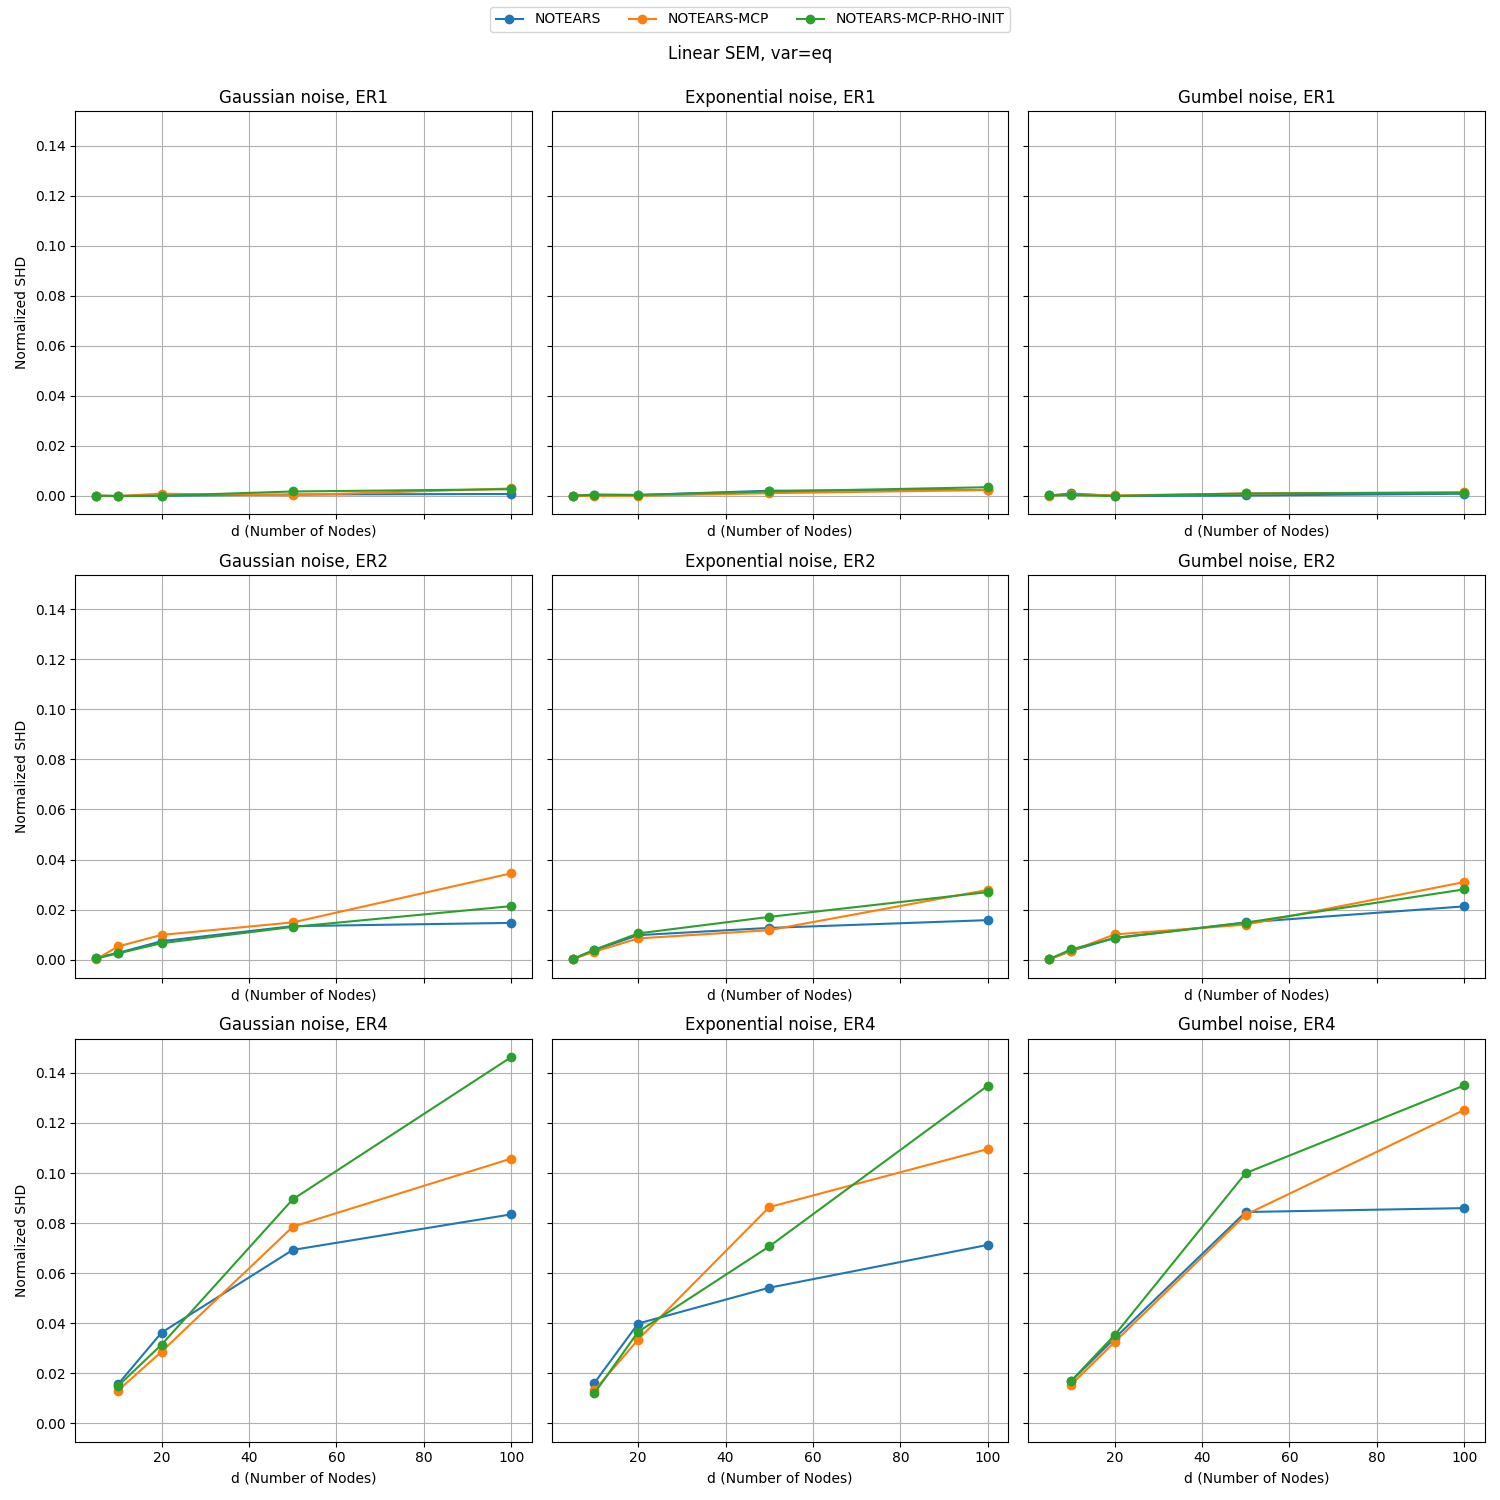
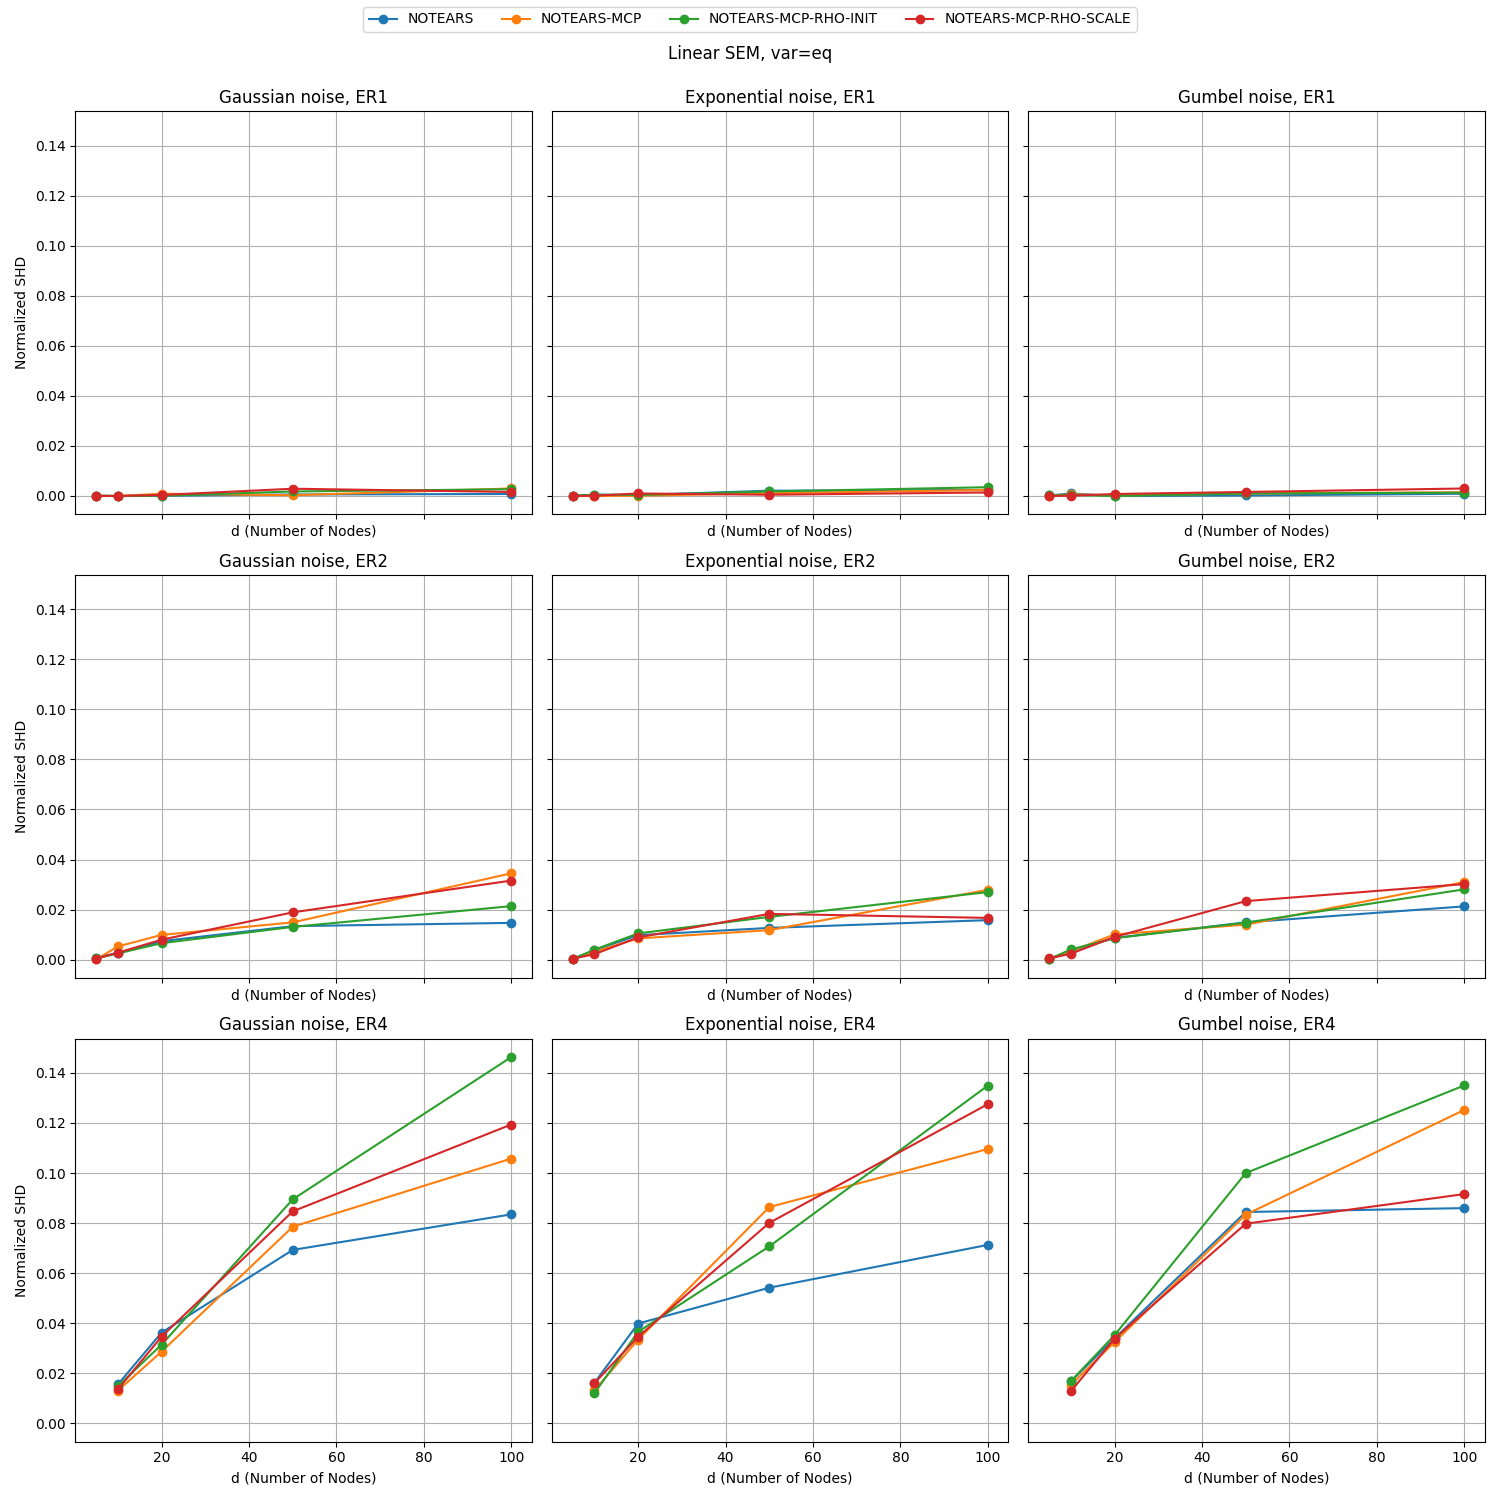
update rho scale

diff --git a/benchmark/notears_linear_rho_init_0.001/reconstruct.py b/benchmark/notears_linear_rho_init_0.001/reconstruct.py
@@ -5,7 +5,7 @@ import matplotlib.pyplot as plt
 num_nodes = [5, 10, 20, 50, 100]
 s0_ratios = [1, 2, 4]
 noise_types = ["gauss", "exp", "gumbel"]
-methods = ["NOTEARS", "NOTEARS-MCP", "NOTEARS-MCP-RHO-INIT"]
+methods = ["NOTEARS", "NOTEARS-MCP", "NOTEARS-MCP-RHO-INIT", "NOTEARS-MCP-RHO-SCALE"]
 
 noise_names = {"gauss": "Gaussian", "exp": "Exponential", "gumbel": "Gumbel"}
 error_vars = ["eq", "random"]
